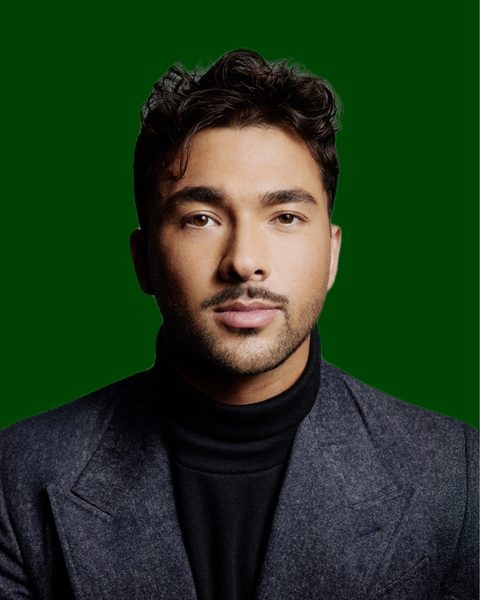
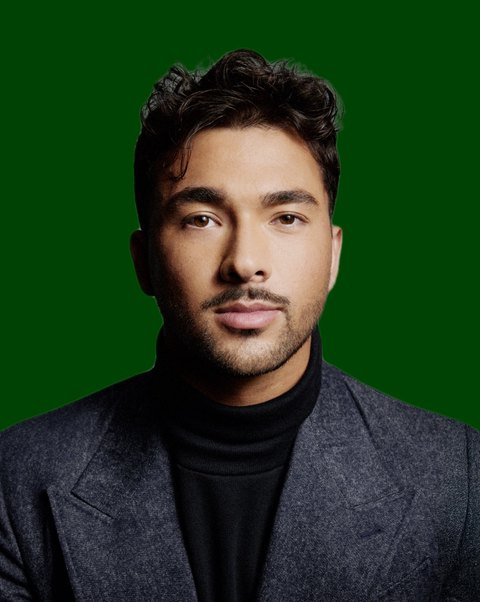
As seen in: wordmarks with swiping headline cards, moved up; Watch gets its own section; whole head visible on mobile; nav fits at all widths

diff --git a/index.html b/index.html
@@ -26,7 +26,7 @@
   <!-- Fixed half: the photograph -->
   <aside class="still" aria-hidden="true">
     <div class="still-frame">
-      <img class="still-img is-on" data-photo="matt" src="assets/headshot-720.jpg" srcset="assets/headshot-480.jpg 480w, assets/headshot-720.jpg 720w, assets/headshot.jpg 1601w" sizes="(min-width: 60em) 47vw, 100vw" width="1601" height="2000" alt="" fetchpriority="high">
+      <img class="still-img is-on" data-photo="matt" src="assets/headshot-720.jpg" srcset="assets/headshot-480.jpg 480w, assets/headshot-720.jpg 720w, assets/headshot.jpg 1601w" sizes="(min-width: 60em) 47vw, 100vw" width="1596" height="2000" alt="" fetchpriority="high">
       <img class="still-img" data-photo="blossom" src="assets/still-blossom.jpg" width="800" height="1200" alt="" loading="lazy">
       <img class="still-img" data-photo="tedx" src="assets/still-tedx.jpg" width="800" height="1199" alt="" loading="lazy">
       <img class="still-img" data-photo="grad" src="assets/still-grad.jpg" width="800" height="1067" alt="" loading="lazy">
@@ -42,7 +42,7 @@
       <div class="nav-links">
         <a href="#links">Links</a>
         <a href="#work">What I do</a>
-        <a href="#press">Press</a>
+        <a href="#watch">Watch</a>
         <a href="#about">About</a>
         <a href="#brands">Brands</a>
         <a href="#contact">Contact</a>
@@ -126,6 +126,70 @@
       </ul>
       <p class="small muted footnote" data-reveal>*Referral links. If you sign up I may earn a bonus; you pay nothing extra. I only share products I use.</p>
 
+      <h2 class="head" data-reveal id="press">As seen in</h2>
+      <div class="press" id="press-stage" data-reveal>
+        <ul class="press-marks" aria-label="Publications">
+          <li><button class="press-mark is-on" type="button" data-i="0" aria-pressed="true">The Globe and Mail</button></li>
+          <li><button class="press-mark" type="button" data-i="1" aria-pressed="false">Toronto Life</button></li>
+          <li><button class="press-mark" type="button" data-i="2" aria-pressed="false">The Wall Street Journal</button></li>
+          <li><button class="press-mark" type="button" data-i="3" aria-pressed="false">TEDxWesternU</button></li>
+          <li><button class="press-mark" type="button" data-i="4" aria-pressed="false">Western University</button></li>
+          <li><button class="press-mark" type="button" data-i="5" aria-pressed="false">Gary Guo podcast</button></li>
+          <li><button class="press-mark" type="button" data-i="6" aria-pressed="false">Feedspot</button></li>
+          <li><button class="press-mark" type="button" data-i="7" aria-pressed="false">Over Here Toronto</button></li>
+        </ul>
+        <ul class="press-cards">
+          <li class="press-card is-on" data-i="0"><a class="press-card-link" href="https://www.theglobeandmail.com/investing/personal-finance/retirement/article-investors-want-advice-in-a-volatile-market-finfluencers-are-trying-to/" target="_blank" rel="noopener"><span class="press-card-name">The Globe and Mail</span><span class="press-card-title">Investors want advice in a volatile market. 'Finfluencers' are trying to fill the gap</span><span class="press-card-cta">Read the piece</span></a></li>
+          <li class="press-card" data-i="1"><a class="press-card-link" href="https://torontolife.com/city/this-22-year-old-venture-capitalist-is-on-track-to-make-180000-this-year-how-does-he-spend-it/" target="_blank" rel="noopener"><span class="press-card-name">Toronto Life</span><span class="press-card-title">This 22-year-old venture capitalist is on track to make $180,000 this year. How does he spend it?</span><span class="press-card-cta">Read the piece</span></a></li>
+          <li class="press-card" data-i="2"><span class="press-card-link is-static"><span class="press-card-name">The Wall Street Journal</span><span class="press-card-title">Personal finance</span></span></li>
+          <li class="press-card" data-i="3"><a class="press-card-link" href="https://youtu.be/J-TVkQwzmJ8" target="_blank" rel="noopener"><span class="press-card-name">TEDxWesternU</span><span class="press-card-title">Why talking about money feels like breaking a rule</span><span class="press-card-cta">Watch the talk</span></a></li>
+          <li class="press-card" data-i="4"><a class="press-card-link" href="https://welcome.uwo.ca/what-is-western-like/student-stories/matthew-shoss.html" target="_blank" rel="noopener"><span class="press-card-name">Western University</span><span class="press-card-title">Student story: aviation, entrepreneurship and student leadership</span><span class="press-card-cta">Read the story</span></a></li>
+          <li class="press-card" data-i="5"><a class="press-card-link" href="https://www.youtube.com/watch?v=1c5WFXaLcaA" target="_blank" rel="noopener"><span class="press-card-name">Gary Guo podcast</span><span class="press-card-title">How to actually build wealth in your 20s</span><span class="press-card-cta">Listen</span></a></li>
+          <li class="press-card" data-i="6"><a class="press-card-link" href="https://influencers.feedspot.com/canada_personal_finance_instagram_influencers/" target="_blank" rel="noopener"><span class="press-card-name">Feedspot</span><span class="press-card-title">Top 25 Canada personal finance influencers, 2026</span><span class="press-card-cta">See the list</span></a></li>
+          <li class="press-card" data-i="7"><a class="press-card-link" href="https://www.overheretoronto.com/best-finance-bloggers-and-content-creators-in-toronto/" target="_blank" rel="noopener"><span class="press-card-name">Over Here Toronto</span><span class="press-card-title">Best finance creators in Toronto</span><span class="press-card-cta">See the list</span></a></li>
+        </ul>
+      </div>
+    </section>
+
+    <!-- 2. What I do: breaks the split, runs full width in the green field -->
+    <section class="section work field" id="work" data-photo="blossom" data-caption="BlossomCon 2026, Rogers Centre, Toronto" data-ink="#e9e4da">
+      <div class="work-inner">
+        <h2 class="head work-head" data-reveal>What I do</h2>
+        <ul class="work-list">
+          <li class="work-item" data-reveal style="--i:0">
+            <a class="work-link" href="https://instagram.com/mattshoss" target="_blank" rel="noopener">
+              <span class="work-name">@mattshoss</span>
+              <span class="work-role">Personal finance creator</span>
+            </a>
+            <p class="work-desc">Short videos on investing, TFSAs, RRSPs, FHSAs, credit cards and money for people just starting out. Every video is my own opinion, and every sponsor is disclosed.</p>
+          </li>
+          <li class="work-item" data-reveal style="--i:1">
+            <a class="work-link" href="http://dfruitventures.com" target="_blank" rel="noopener">
+              <span class="work-name">Dragonfruit Ventures</span>
+              <span class="work-role">Co-founder and General Partner</span>
+            </a>
+            <p class="work-desc">A Gen Z-led pre-seed and seed fund backing consumer and future-of-work startups. Built content-first, so founders know who we are before we ever take a meeting.</p>
+          </li>
+          <li class="work-item" data-reveal style="--i:2">
+            <a class="work-link" href="https://instagram.com/dfvlabs" target="_blank" rel="noopener">
+              <span class="work-name">DFV Labs</span>
+              <span class="work-role">CEO</span>
+            </a>
+            <p class="work-desc">Distribution for pre-seed to Series A startups: creator-led video, social channels and growth strategy. More than 100 million organic views for clients.</p>
+          </li>
+          <li class="work-item" data-reveal style="--i:3">
+            <a class="work-link" href="https://instagram.com/mattshosstech" target="_blank" rel="noopener">
+              <span class="work-name">@mattshosstech</span>
+              <span class="work-role">My tech page</span>
+            </a>
+            <p class="work-desc">Practical AI and consumer tech: the tools I actually use to run a fund, an agency and a creator business from one laptop.</p>
+          </li>
+        </ul>
+      </div>
+    </section>
+
+    <!-- 3. Press: plain names in columns -->
+    <section class="section watch" id="watch" data-photo="tedx" data-caption="TEDxWesternU, February 2025">
       <h2 class="head" data-reveal>Watch</h2>
       <ul class="videos" data-reveal-rows>
         <li class="video" data-reveal style="--i:0">
@@ -169,95 +233,10 @@
           </a>
         </li>
       </ul>
-    </section>
-
-    <!-- 2. What I do: breaks the split, runs full width in the green field -->
-    <section class="section work field" id="work" data-photo="blossom" data-caption="BlossomCon 2026, Rogers Centre, Toronto" data-ink="#e9e4da">
-      <div class="work-inner">
-        <h2 class="head work-head" data-reveal>What I do</h2>
-        <ul class="work-list">
-          <li class="work-item" data-reveal style="--i:0">
-            <a class="work-link" href="https://instagram.com/mattshoss" target="_blank" rel="noopener">
-              <span class="work-name">@mattshoss</span>
-              <span class="work-role">Personal finance creator</span>
-            </a>
-            <p class="work-desc">Short videos on investing, TFSAs, RRSPs, FHSAs, credit cards and money for people just starting out. Every video is my own opinion, and every sponsor is disclosed.</p>
-          </li>
-          <li class="work-item" data-reveal style="--i:1">
-            <a class="work-link" href="http://dfruitventures.com" target="_blank" rel="noopener">
-              <span class="work-name">Dragonfruit Ventures</span>
-              <span class="work-role">Co-founder and General Partner</span>
-            </a>
-            <p class="work-desc">A Gen Z-led pre-seed and seed fund backing consumer and future-of-work startups. Built content-first, so founders know who we are before we ever take a meeting.</p>
-          </li>
-          <li class="work-item" data-reveal style="--i:2">
-            <a class="work-link" href="https://instagram.com/dfvlabs" target="_blank" rel="noopener">
-              <span class="work-name">DFV Labs</span>
-              <span class="work-role">CEO</span>
-            </a>
-            <p class="work-desc">Distribution for pre-seed to Series A startups: creator-led video, social channels and growth strategy. More than 100 million organic views for clients.</p>
-          </li>
-          <li class="work-item" data-reveal style="--i:3">
-            <a class="work-link" href="https://instagram.com/mattshosstech" target="_blank" rel="noopener">
-              <span class="work-name">@mattshosstech</span>
-              <span class="work-role">My tech page</span>
-            </a>
-            <p class="work-desc">Practical AI and consumer tech: the tools I actually use to run a fund, an agency and a creator business from one laptop.</p>
-          </li>
-        </ul>
-      </div>
-    </section>
-
-    <!-- 3. Press: plain names in columns -->
-    <section class="section press" id="press" data-photo="tedx" data-caption="TEDxWesternU, February 2025">
-      <h2 class="head" data-reveal>As seen in</h2>
       <figure class="picture shutter" data-reveal>
         <img src="assets/tedx-stage.jpg" width="1400" height="934" alt="Matt Shoss on the TEDxWesternU stage, February 2025" loading="lazy">
         <figcaption class="small muted">TEDxWesternU, February 2025. I give talks on personal finance at events across Canada and the US.</figcaption>
       </figure>
-      <div class="press-cols">
-        <div class="press-kind" data-reveal style="--i:0">
-          <p class="press-kind-name">Press</p>
-          <a class="press-item" href="https://www.theglobeandmail.com/investing/personal-finance/retirement/article-investors-want-advice-in-a-volatile-market-finfluencers-are-trying-to/" target="_blank" rel="noopener">
-            <span class="press-name">The Globe and Mail</span>
-            <span class="press-title">Investors want advice in a volatile market. 'Finfluencers' are trying to fill the gap</span>
-          </a>
-          <a class="press-item" href="https://torontolife.com/city/this-22-year-old-venture-capitalist-is-on-track-to-make-180000-this-year-how-does-he-spend-it/" target="_blank" rel="noopener">
-            <span class="press-name">Toronto Life</span>
-            <span class="press-title">This 22-year-old venture capitalist is on track to make $180,000 this year. How does he spend it?</span>
-          </a>
-          <span class="press-item is-static">
-            <span class="press-name">The Wall Street Journal</span>
-            <span class="press-title">Personal finance</span>
-          </span>
-        </div>
-        <div class="press-kind" data-reveal style="--i:1">
-          <p class="press-kind-name">Talks</p>
-          <a class="press-item" href="https://youtu.be/J-TVkQwzmJ8" target="_blank" rel="noopener">
-            <span class="press-name">TEDxWesternU</span>
-            <span class="press-title">Why talking about money feels like breaking a rule</span>
-          </a>
-          <a class="press-item" href="https://welcome.uwo.ca/what-is-western-like/student-stories/matthew-shoss.html" target="_blank" rel="noopener">
-            <span class="press-name">Western University</span>
-            <span class="press-title">Student story: aviation, entrepreneurship and student leadership</span>
-          </a>
-          <a class="press-item" href="https://www.youtube.com/watch?v=1c5WFXaLcaA" target="_blank" rel="noopener">
-            <span class="press-name">Gary Guo podcast</span>
-            <span class="press-title">How to actually build wealth in your 20s</span>
-          </a>
-        </div>
-        <div class="press-kind" data-reveal style="--i:2">
-          <p class="press-kind-name">Lists</p>
-          <a class="press-item" href="https://influencers.feedspot.com/canada_personal_finance_instagram_influencers/" target="_blank" rel="noopener">
-            <span class="press-name">Feedspot</span>
-            <span class="press-title">Top 25 Canada personal finance influencers, 2026</span>
-          </a>
-          <a class="press-item" href="https://www.overheretoronto.com/best-finance-bloggers-and-content-creators-in-toronto/" target="_blank" rel="noopener">
-            <span class="press-name">Over Here Toronto</span>
-            <span class="press-title">Best finance creators in Toronto</span>
-          </a>
-        </div>
-      </div>
     </section>
 
     <!-- 4. About: a letter -->

diff --git a/styles.css b/styles.css
@@ -101,6 +101,9 @@ p { max-width: 62ch; text-wrap: pretty; }
 .nav-links a:hover, .nav-links a.is-current { color: var(--ink); }
 .nav-action { min-height: 2.4rem; padding-inline: 1rem; font-size: var(--step-small); }
 
+/* The small mark in the nav only when the column is wide enough for everything on one line. */
+@media (min-width: 60em) and (max-width: 100em) { .nav-mark { display: none; } .nav-links { margin-right: auto; } }
+
 /* ---------- hero ---------- */
 .hero { padding-top: clamp(0.75rem, 3svh, 2rem); padding-bottom: 0; }
 .wordmark { font-size: var(--step-display); line-height: 0.9; letter-spacing: -0.045em; margin-left: -0.04em; transform-origin: left bottom; position: relative; z-index: 2; }
@@ -164,14 +167,30 @@ p { max-width: 62ch; text-wrap: pretty; }
 .work-desc { margin-top: 0.8rem; max-width: 46ch; color: var(--accent-ink); }
 .work-link:hover .work-role { text-decoration: underline; text-underline-offset: 0.18em; text-decoration-thickness: 0.06em; }
 
-/* Press: plain names in columns */
-.press-cols { display: grid; grid-template-columns: repeat(3, minmax(0, 1fr)); gap: 2rem 1.5rem; }
-.press-kind-name { color: var(--muted); font-size: var(--step-body); margin-bottom: 0.75rem; }
-.press-item { display: block; text-decoration: none; padding-block: 0.6rem; }
-.press-item + .press-item { margin-top: 0.25rem; }
-.press-name { display: block; font-family: var(--font-display); font-size: var(--step-item); line-height: 1.15; letter-spacing: -0.01em; transition: color var(--t-hover) ease; }
-.press-title { display: block; margin-top: 0.3rem; font-size: var(--step-small); line-height: 1.4; color: var(--muted); }
-.press-item:hover .press-name { color: var(--accent); text-decoration: underline; text-underline-offset: 0.15em; text-decoration-thickness: 0.06em; }
+/* Press: wordmarks you can tap; one headline card in view, the next swipes it out */
+.press { display: grid; gap: 1.5rem; }
+.press-marks { list-style: none; margin: 0; padding: 0; display: flex; flex-wrap: wrap; gap: 0.4rem 1.4rem; }
+.press-mark { appearance: none; border: 0; background: none; padding: 0.3rem 0; margin: 0; cursor: pointer; font: inherit; font-family: var(--font-display); font-size: var(--step-item); line-height: 1.15; letter-spacing: -0.01em; color: var(--muted); transition: color var(--t-hover) ease, transform var(--t-ui) var(--ease-out); }
+.press-mark.is-on { color: var(--ink); }
+.press-mark:hover { color: var(--accent); }
+.press-mark.is-on:hover { color: var(--accent); }
+.press-cards { list-style: none; margin: 0; padding: 0; display: grid; overflow: clip; }
+.press-card { grid-area: 1 / 1; min-width: 0; }
+.press-card-link { display: grid; gap: 0.6rem; padding: 1.4rem 1.5rem 1.5rem; background: var(--accent); color: var(--accent-ink); text-decoration: none; height: 100%; box-sizing: border-box; }
+.press-card-name { font-family: var(--font-display); font-size: var(--step-big); line-height: 0.98; letter-spacing: -0.03em; }
+.press-card-title { font-size: var(--step-body); line-height: 1.4; max-width: 44ch; }
+.press-card-cta { margin-top: 0.4rem; font-size: var(--step-small); font-weight: 500; color: #b9d2b7; transition: color var(--t-hover) ease; }
+.press-card-link:hover .press-card-cta { color: var(--accent-ink); text-decoration: underline; text-underline-offset: 0.18em; text-decoration-thickness: 0.06em; }
+.js .press-card { opacity: 0; visibility: hidden; transform: translateX(48px); pointer-events: none; }
+.js .press-card.is-on { opacity: 1; visibility: visible; transform: none; pointer-events: auto; }
+.js .press-card.is-out { opacity: 0; visibility: visible; transform: translateX(-48px); }
+@media (prefers-reduced-motion: no-preference) {
+  .js .press-card { transition: opacity 520ms ease, transform 640ms var(--ease-out), visibility 0s linear 640ms; }
+  .js .press-card.is-on { transition: opacity 520ms ease 120ms, transform 640ms var(--ease-out) 120ms, visibility 0s; }
+  .js .press-card.is-out { transition: opacity 360ms var(--ease-exit), transform 520ms var(--ease-in-out), visibility 0s linear 520ms; }
+}
+html:not(.js) .press-card + .press-card { margin-top: 0.5rem; }
+html:not(.js) .press-card { grid-area: auto; }
 
 /* About: the letter */
 .letter { max-width: 34rem; }
@@ -259,6 +278,7 @@ a.contact-row:hover .contact-value { color: var(--accent-ink); }
   .nav-action { min-height: 2.25rem; padding-inline: 0.8rem; }
   .hero { padding-top: 0.5rem; padding-bottom: 0; }
   .hero-more { display: none; }
+  .hero-lead { font-size: 1.125rem; }
   .hero-lead { margin-top: 0.5rem; font-size: var(--step-small); }
   .socials { gap: 0.25rem 0.6rem; margin-top: 0.5rem; font-size: 0.875rem; }
   .links { padding-top: 1.1rem; }
@@ -274,20 +294,16 @@ a.contact-row:hover .contact-value { color: var(--accent-ink); }
   .videos { grid-template-columns: 1fr 1fr; gap: 1rem 0.75rem; }
   .video-title { font-size: 1.25rem; }
   .work { margin-inline: -1.25rem; padding-inline: 1.25rem; }
-  .press-cols { grid-template-columns: 1fr 1fr; }
-  .press-kind:last-child { grid-column: 1 / -1; }
   .contact-rows { margin-inline: -1.25rem; }
   .contact-row { padding-inline: 1.25rem; min-height: 5.25rem; flex-wrap: wrap; align-items: flex-end; }
   .contact-value { text-align: left; width: 100%; padding-bottom: 0; }
   .foot { grid-template-columns: 1fr; gap: 0.5rem; padding-top: 4rem; }
   .foot-links, .foot-year { justify-self: start; text-align: left; flex-wrap: wrap; gap: 0.5rem 1.25rem; }
 }
+@media (max-width: 36em) { .nav-action { display: none; } }
 @media (max-width: 26em) {
   .videos { grid-template-columns: 1fr; }
-  .press-cols { grid-template-columns: 1fr; }
-  .press-kind:last-child { grid-column: auto; }
   .nav-links { gap: 0.75rem; font-size: 0.875rem; }
-  .nav-action { display: none; }
   .brand-list { columns: 1; }
 }
 
@@ -295,13 +311,17 @@ a.contact-row:hover .contact-value { color: var(--accent-ink); }
 @media (min-width: 60em) and (max-height: 40em) {
   .still-img[data-photo="matt"] { object-position: 50% 12%; }
 }
-@media (max-width: 59.99em) { .still-img { object-position: 50% 18%; } .still-img[data-photo="matt"] { object-position: 50% 20%; } }
+@media (max-width: 59.99em) {
+  .still-img { object-position: 50% 18%; }
+  /* The portrait sits on the same green as the frame, so on a short band we let it keep its shape (contain) and show the whole head. */
+  .still-img[data-photo="matt"] { object-fit: contain; object-position: 50% 0; height: 136%; }
+}
 
 /* inline pictures */
 .picture { margin-top: clamp(1.75rem, 3vw, 2.5rem); }
 .picture img { width: 100%; aspect-ratio: 3 / 2; object-fit: cover; }
 .picture figcaption { margin-top: 0.7rem; max-width: 52ch; }
-.press .picture { margin-bottom: clamp(2.5rem, 5vw, 3.5rem); }
+.watch .picture { margin-top: clamp(2.5rem, 5vw, 3.5rem); }
 .brands .picture { margin-top: clamp(2.5rem, 5vw, 3.5rem); }
 @media (prefers-reduced-motion: no-preference) {
   .js .shutter[data-reveal] { opacity: 1; transform: none; clip-path: inset(0 0 100% 0); transition: clip-path 1100ms var(--ease-in-out); }

diff --git a/main.js b/main.js
@@ -103,4 +103,30 @@
       slides[manual].style.opacity = '1'; slides[manual].style.visibility = 'visible';
     });
   }
+
+  // 7. As seen in: one headline card at a time. The next swipes the current one out; a tap on a name jumps to it.
+  const press = document.getElementById('press-stage');
+  if (press) {
+    const marks = [...press.querySelectorAll('.press-mark')];
+    const cards = [...press.querySelectorAll('.press-card')];
+    let i = 0, timer = 0, paused = false, inView = false;
+    const go = (n) => {
+      if (n === i) return;
+      cards[i].classList.remove('is-on'); cards[i].classList.add('is-out');
+      const prev = cards[i];
+      setTimeout(() => prev.classList.remove('is-out'), 700);
+      i = n;
+      cards[i].classList.add('is-on');
+      marks.forEach((m, k) => { m.classList.toggle('is-on', k === i); m.setAttribute('aria-pressed', String(k === i)); });
+    };
+    const schedule = () => { clearTimeout(timer); if (reduce || paused || !inView) return; timer = setTimeout(() => { go((i + 1) % cards.length); schedule(); }, 4200); };
+    marks.forEach((m, k) => m.addEventListener('click', () => { go(k); schedule(); }));
+    press.addEventListener('pointerenter', () => { paused = true; clearTimeout(timer); });
+    press.addEventListener('pointerleave', () => { paused = false; schedule(); });
+    press.addEventListener('focusin', () => { paused = true; clearTimeout(timer); });
+    press.addEventListener('focusout', () => { paused = false; schedule(); });
+    if ('IntersectionObserver' in window) {
+      new IntersectionObserver((entries) => { inView = entries.some((e) => e.isIntersecting); schedule(); }, { threshold: 0.3 }).observe(press);
+    } else { inView = true; schedule(); }
+  }
 })();
